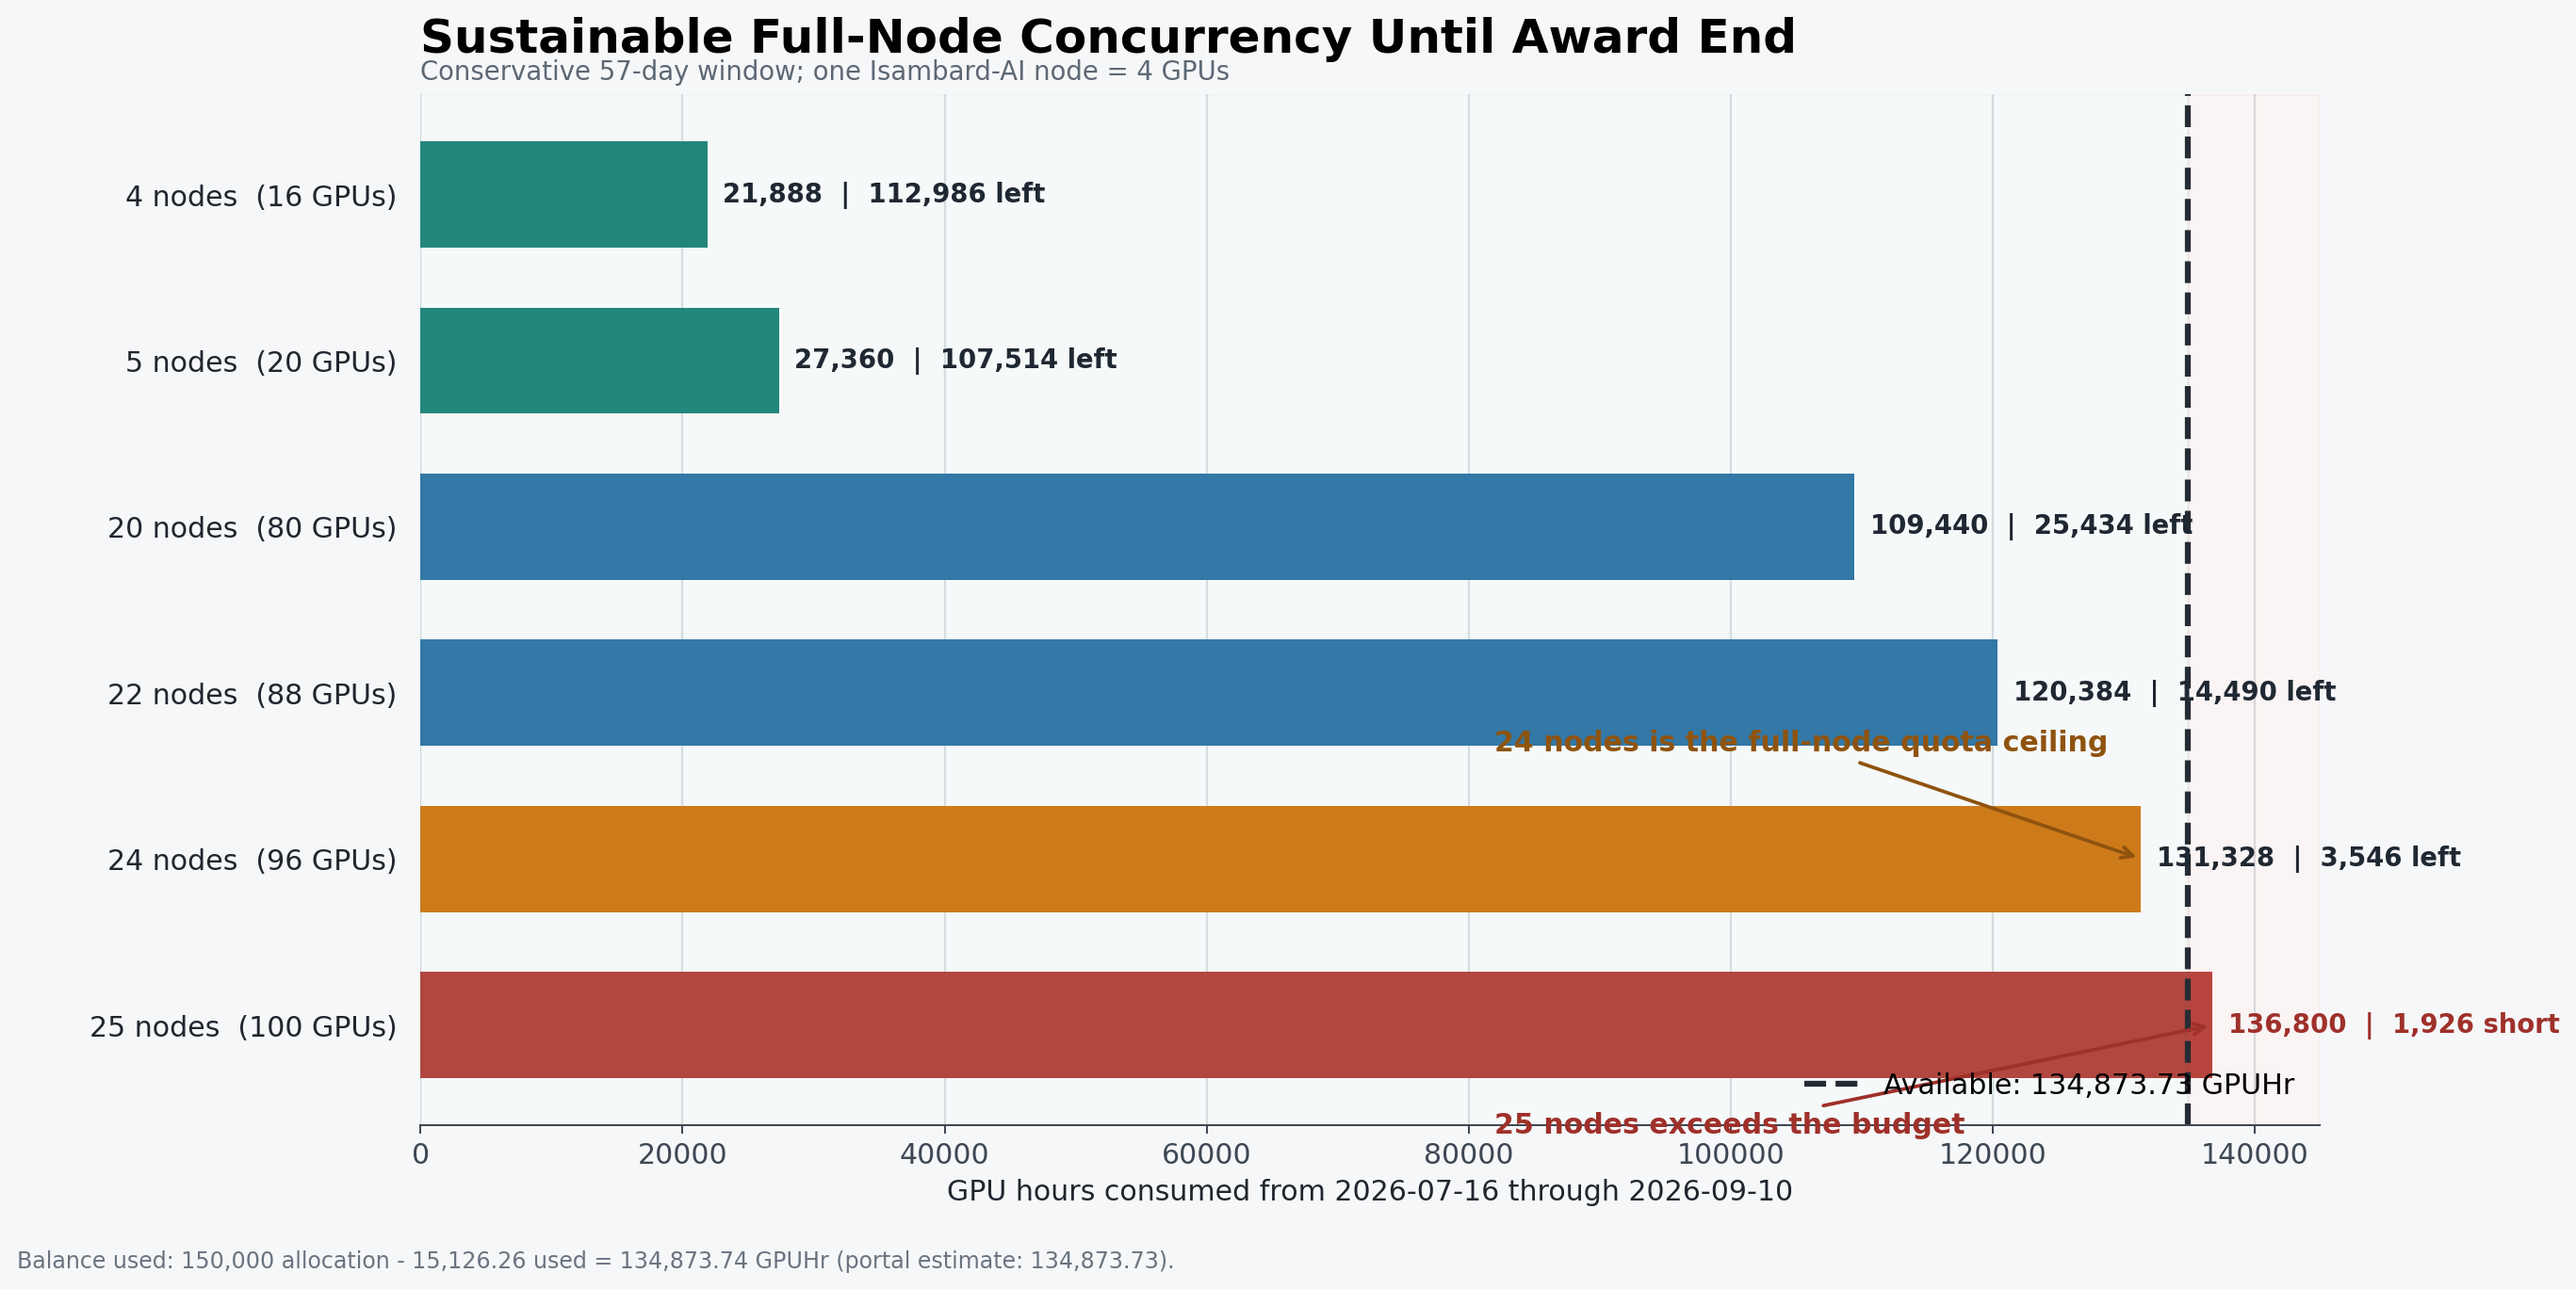
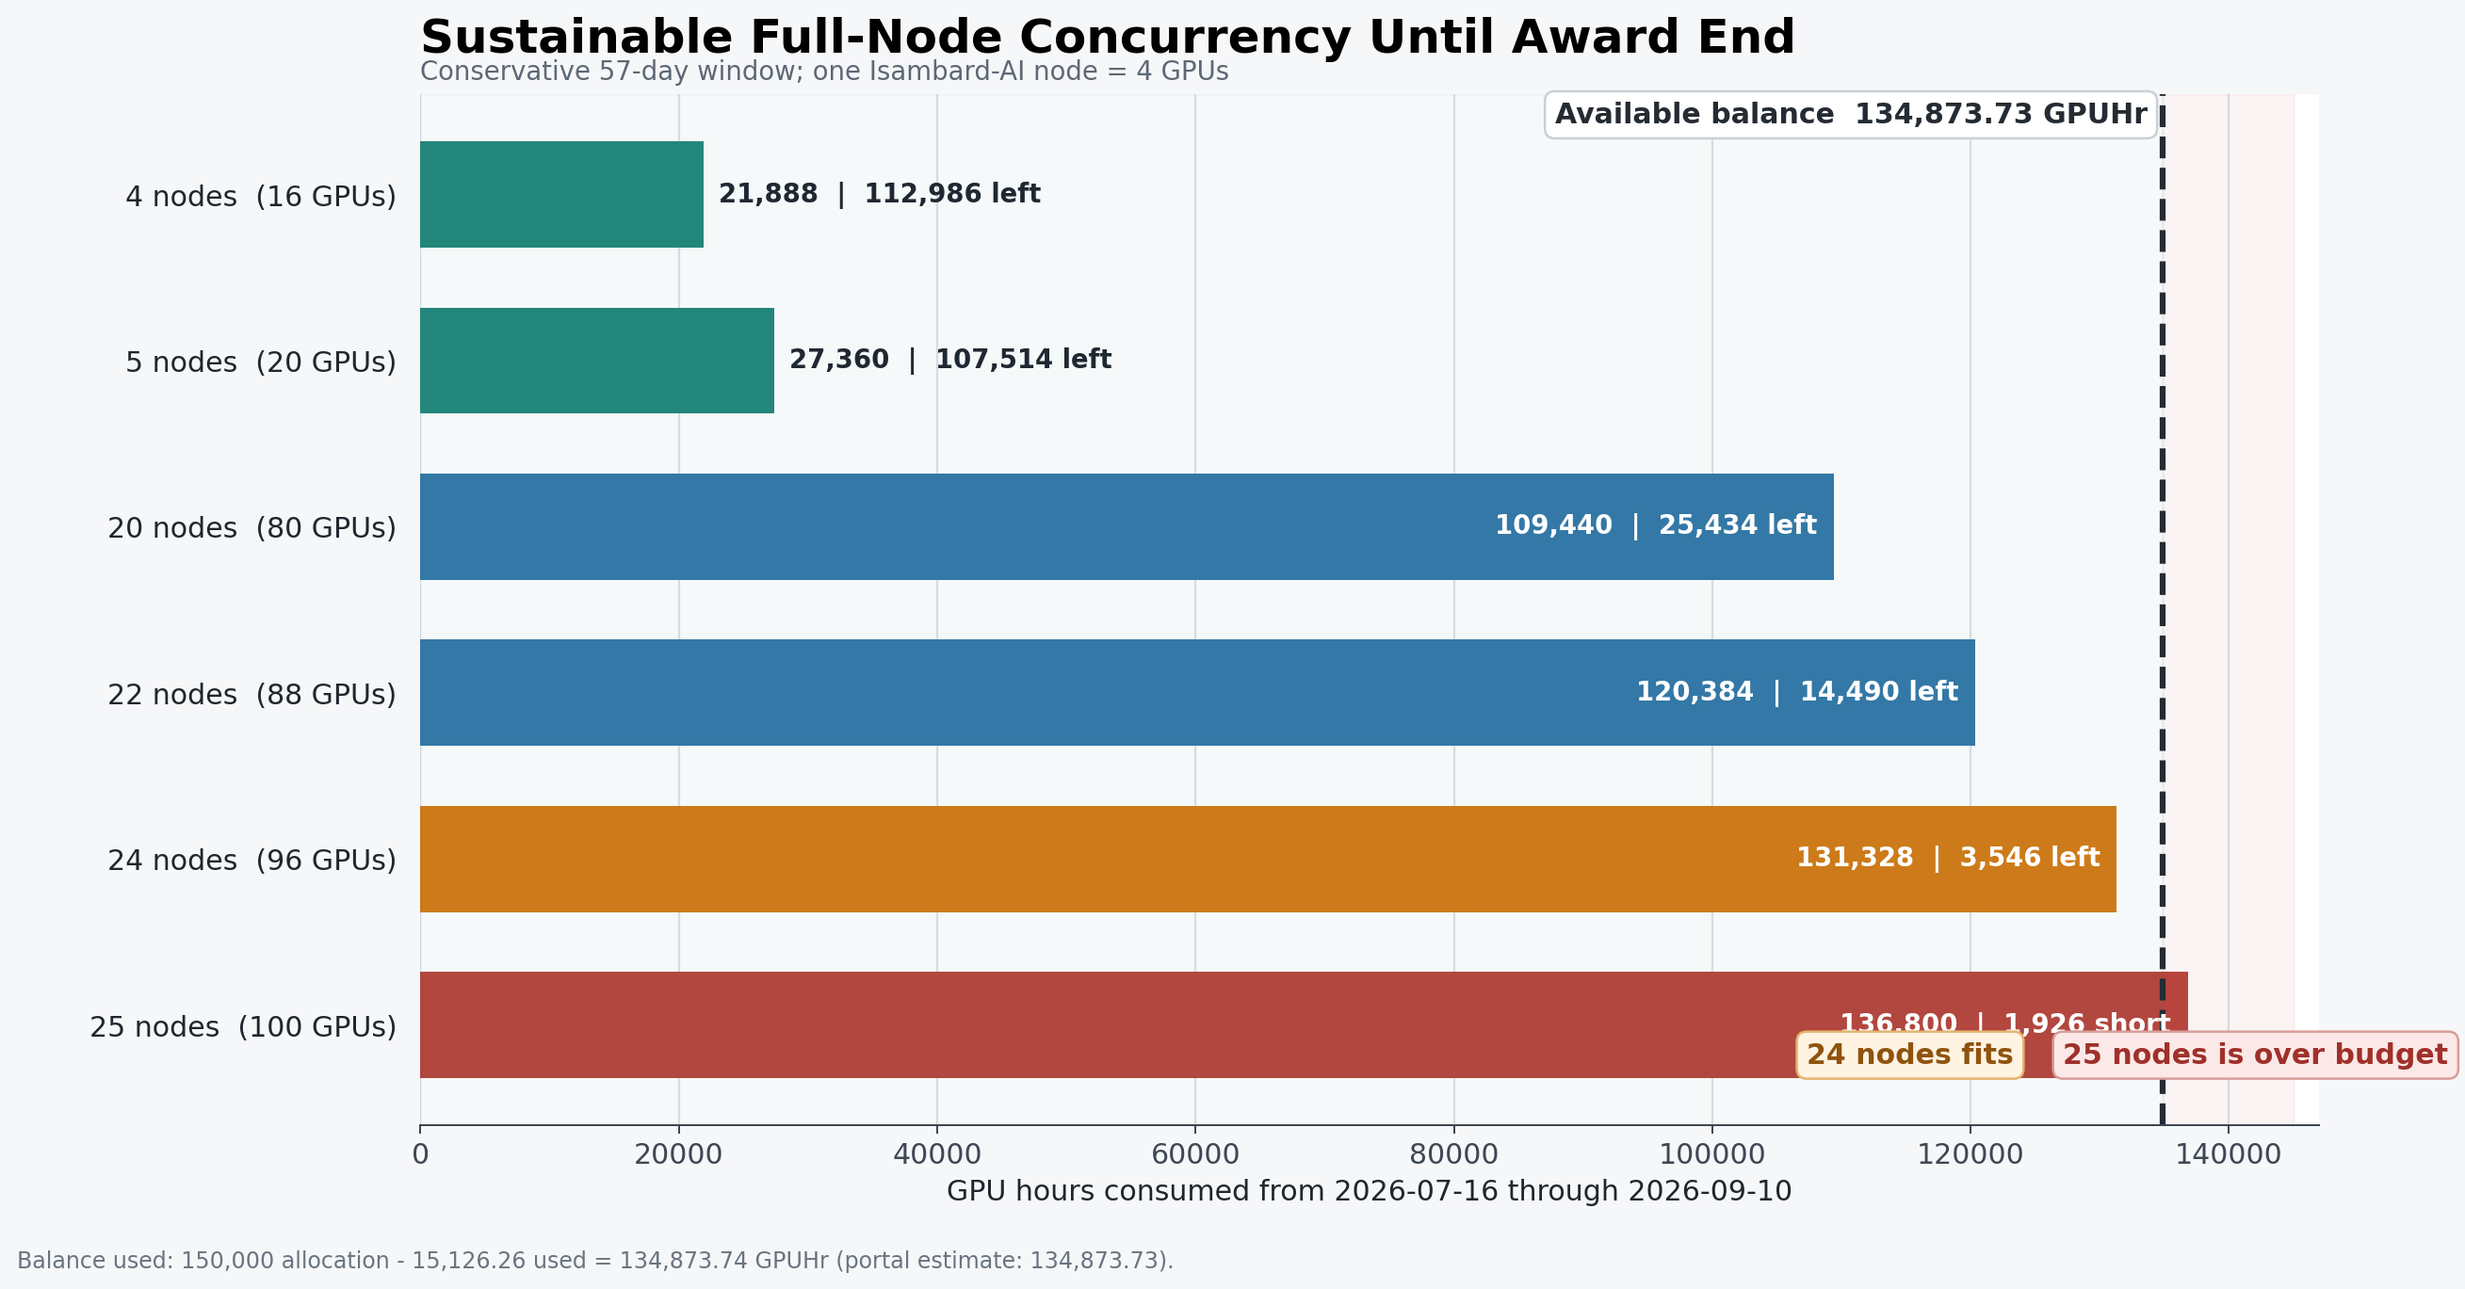
Polish award capacity figure

diff --git a/notion_fetches/isambard_allocation_20260716T132600Z/build_sustainable_nodes_plot.py b/notion_fetches/isambard_allocation_20260716T132600Z/build_sustainable_nodes_plot.py
@@ -34,33 +34,28 @@ def main() -> None:
     colors = ["#23867b", "#23867b", "#3478a8", "#3478a8", "#d57b16", "#b8453d"]
     bars = ax.barh(y, COSTS, color=colors, height=0.64)
 
-    ax.axvline(
-        BALANCE_GPU_HOURS,
-        color="#252b33",
-        linewidth=2.5,
-        linestyle="--",
-        label=f"Available: {BALANCE_GPU_HOURS:,.2f} GPUHr",
-    )
+    ax.axvline(BALANCE_GPU_HOURS, color="#252b33", linewidth=2.5, linestyle="--")
     ax.axvspan(0, BALANCE_GPU_HOURS, color="#23867b", alpha=0.045)
     ax.axvspan(BALANCE_GPU_HOURS, 145_000, color="#b8453d", alpha=0.055)
 
     for bar, nodes, cost in zip(bars, NODE_COUNTS, COSTS):
         delta = BALANCE_GPU_HOURS - cost
         status = f"{delta:,.0f} left" if delta >= 0 else f"{abs(delta):,.0f} short"
+        put_inside = nodes >= 20
         ax.text(
-            min(cost + 1_200, 142_500),
+            cost - 1_300 if put_inside else cost + 1_200,
             bar.get_y() + bar.get_height() / 2,
             f"{cost:,.0f}  |  {status}",
             va="center",
-            ha="left",
-            color="#1f2832" if delta >= 0 else "#9f302a",
+            ha="right" if put_inside else "left",
+            color="white" if put_inside else "#1f2832",
             fontweight="bold",
             fontsize=11,
         )
 
     ax.set_yticks(y, [f"{n} nodes  ({n * GPUS_PER_NODE} GPUs)" for n in NODE_COUNTS])
     ax.invert_yaxis()
-    ax.set_xlim(0, 145_000)
+    ax.set_xlim(0, 147_000)
     ax.set_xlabel("GPU hours consumed from 2026-07-16 through 2026-09-10")
     ax.set_title("Sustainable Full-Node Concurrency Until Award End", fontsize=20, loc="left", pad=18)
     ax.text(
@@ -75,23 +70,33 @@ def main() -> None:
     ax.set_axisbelow(True)
     ax.spines[["top", "right", "left"]].set_visible(False)
     ax.tick_params(axis="y", length=0, pad=10)
-    ax.legend(loc="lower right", frameon=False)
-
-    ax.annotate(
-        "24 nodes is the full-node quota ceiling",
-        xy=(COSTS[-2], y[-2]),
-        xytext=(82_000, y[-2] - 0.65),
-        arrowprops={"arrowstyle": "->", "color": "#8f530e", "lw": 1.5},
+    ax.text(
+        BALANCE_GPU_HOURS - 1_200,
+        -0.48,
+        f"Available balance  {BALANCE_GPU_HOURS:,.2f} GPUHr",
+        ha="right",
+        va="center",
+        color="#252b33",
+        fontweight="bold",
+        bbox={"facecolor": "white", "edgecolor": "#c9d0d8", "boxstyle": "round,pad=0.35"},
+    )
+    ax.text(
+        0.73,
+        0.06,
+        "24 nodes fits",
+        transform=ax.transAxes,
         color="#8f530e",
         fontweight="bold",
+        bbox={"facecolor": "#fff3e2", "edgecolor": "#e5b46f", "boxstyle": "round,pad=0.35"},
     )
-    ax.annotate(
-        "25 nodes exceeds the budget",
-        xy=(COSTS[-1], y[-1]),
-        xytext=(82_000, y[-1] + 0.65),
-        arrowprops={"arrowstyle": "->", "color": "#9f302a", "lw": 1.5},
+    ax.text(
+        0.865,
+        0.06,
+        "25 nodes is over budget",
+        transform=ax.transAxes,
         color="#9f302a",
         fontweight="bold",
+        bbox={"facecolor": "#fbe9e7", "edgecolor": "#d99d98", "boxstyle": "round,pad=0.35"},
     )
 
     fig.text(

diff --git a/notion_fetches/isambard_allocation_20260716T132600Z/manifest.md b/notion_fetches/isambard_allocation_20260716T132600Z/manifest.md
@@ -15,5 +15,5 @@
 - Source: locally generated Matplotlib analysis of the archived allocation screenshot
 - Local path: `assets/sustainable_nodes_to_award_end.png`
 - File type: `image/png`
-- Size: `228900` bytes
[1 lines of base64/hex data omitted]
+- Size: `213513` bytes
[1 lines of base64/hex data omitted]
